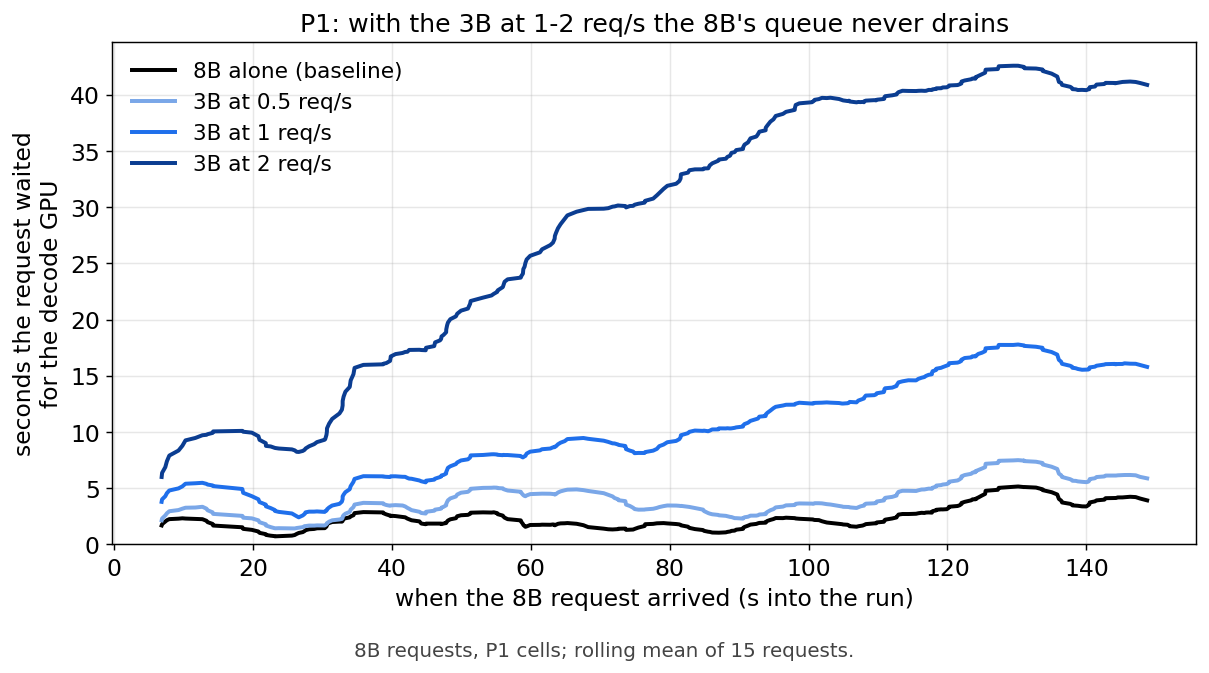
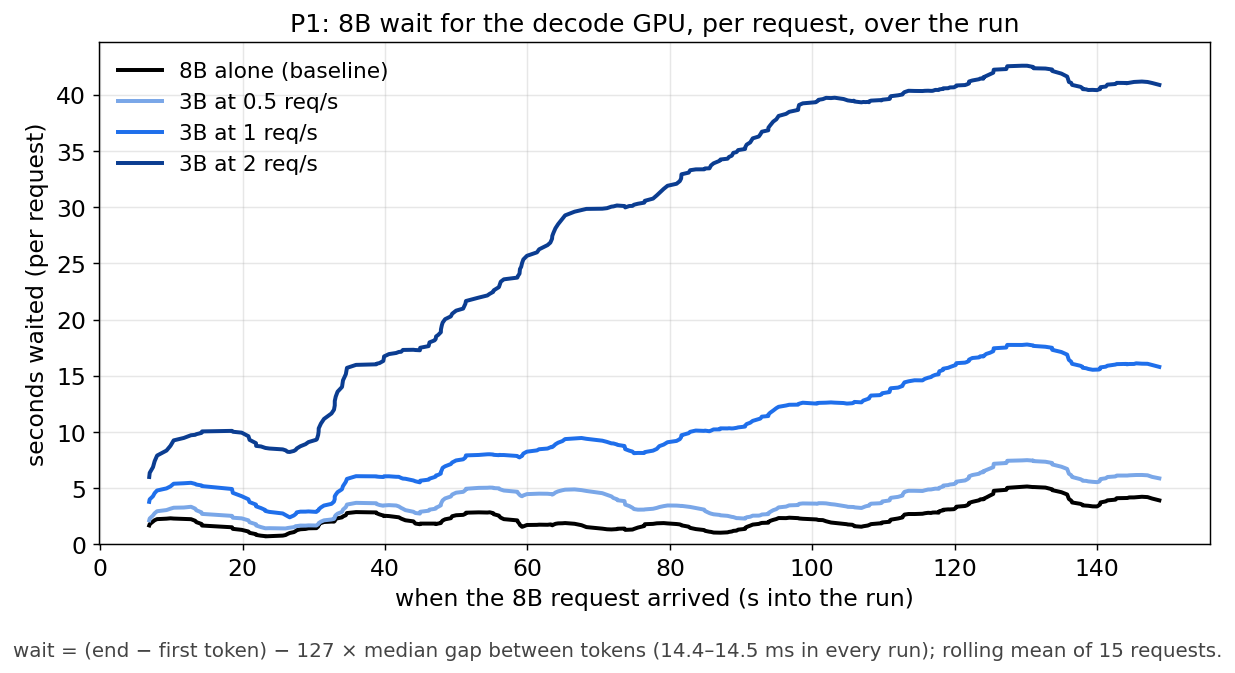
Prefill-coloc figures: panel titles name the metric measured
Titles now say what is plotted (8B output tok/s; 8B decode-engine queue wait = vLLM
request_queue_time, not TPOT; GPU1 SM-active; per-request wait; 3B TTFT; share of P3
decode requests with the whole KV in DRAM), with definitions in the footnotes.

diff --git a/scripts/plots/plot_pfc_results.py b/scripts/plots/plot_pfc_results.py
@@ -78,22 +78,22 @@ def rate_figure():
     base = lambda col: f("pfc_base", col)
     bars(ax[0], get("big_tok_per_s"), lambda y: f"{y:.0f}", cols, labs, base("big_tok_per_s"))
     ax[0].set(ylabel="8B output tokens / s", ylim=(0, 285),
-              title="(a) 8B serves less as the 3B load grows")
+              title="(a) 8B throughput: output tokens / s")
     q = [np.array(v) / 1000 for v in get("big_decode_queue_ms")]
     bars(ax[1], q, lambda y: f"{y:.1f}", cols, labs, base("big_decode_queue_ms") / 1000)
-    ax[1].set(ylabel="seconds", ylim=(0, 31),
-              title="(b) 8B requests wait longer for the decode GPU")
+    ax[1].set(ylabel="seconds (mean per request)", ylim=(0, 31),
+              title="(b) 8B queue wait in the decode engine")
     bars(ax[2], get("gpu1_sm_active_mean"), lambda y: f"{y:.2f}", cols, labs,
          base("gpu1_sm_active_mean"))
-    ax[2].set(ylabel="fraction of time the SMs are busy", ylim=(0, 0.8),
-              title="(c) The decode GPU (GPU1) is busier")
+    ax[2].set(ylabel="fraction of time (mean over the run)", ylim=(0, 0.8),
+              title="(c) GPU1 SM-active (DCGM)")
     fig.legend(*ax[0].get_legend_handles_labels(), loc="upper center", ncol=3,
                frameon=False, bbox_to_anchor=(0.5, 1.0))
     fig.suptitle("Placements P1 and P2: 3B prefill on the 8B's decode GPU", y=1.06,
                  fontsize=15, fontweight="bold")
     fig.text(0.5, -0.04, "8B: split, 2 requests/s, decode GPU budget 22 GiB.  3B: a fresh "
              "6144-token prompt per request, prefilled on the 8B's decode GPU.  "
-             "(b) = mean time an 8B request waits in the decode engine's queue.",
+             "(b) = vLLM request_queue_time on the 8B decode engine: arrival there → first scheduled (not TPOT).",
              ha="center", fontsize=11, color="#444")
     fig.tight_layout()
     fig.savefig(FIGS / "pfc_rate.png", dpi=130, bbox_inches="tight")
@@ -118,11 +118,12 @@ def saturation_figure():
         ax.plot(t[k - 1:], np.convolve(wait, np.ones(k) / k, mode="valid"), color=c, lw=2.2,
                 label=lab)
     ax.set(xlabel="when the 8B request arrived (s into the run)",
-           ylabel="seconds the request waited\nfor the decode GPU",
-           title="P1: with the 3B at 1-2 req/s the 8B's queue never drains", ylim=(0, None))
+           ylabel="seconds waited (per request)",
+           title="P1: 8B wait for the decode GPU, per request, over the run", ylim=(0, None))
     ax.grid(alpha=0.3)
     ax.legend(frameon=False, loc="upper left")
-    fig.text(0.5, -0.03, "8B requests, P1 cells; rolling mean of 15 requests.",
+    fig.text(0.5, -0.03, "wait = (end − first token) − 127 × median gap between tokens "
+             "(14.4–14.5 ms in every run); rolling mean of 15 requests.",
              ha="center", fontsize=11, color="#444")
     fig.tight_layout()
     fig.savefig(FIGS / "pfc_saturation.png", dpi=130, bbox_inches="tight")
@@ -151,7 +152,7 @@ def async_figure():
     ax[0].axhline(ref, color=C_P1, ls="--", lw=1.2,
                   label=f"prefill only, 3B alone ({ref:.0f} ms)")
     ax[0].set(xticks=xi, xticklabels=[p[0] for p in pairs], ylabel="3B time to first token (ms)\nbar = median, line = p95",
-              ylim=(0, 2300), title="(a) Writing the KV to DRAM no longer delays the first token")
+              ylim=(0, 2300), title="(a) 3B TTFT (time to first token)")
     ax[0].grid(alpha=0.3, axis="y")
 
     hit = []
@@ -164,7 +165,7 @@ def async_figure():
         ax[1].text(i, v + 1.5, f"{v:.0f}%", ha="center", va="bottom", fontsize=11)
     ax[1].set(xticks=range(5), xticklabels=lab, ylim=(0, 112),
               ylabel="% of decode requests",
-              title="(b) P3: decode found all its KV")
+              title="(b) P3: decode requests that found\nthe whole KV in DRAM (%)")
     ax[1].grid(alpha=0.3, axis="y")
     fig.legend(*ax[0].get_legend_handles_labels(), loc="upper center", ncol=3, frameon=False,
                bbox_to_anchor=(0.5, 0.99))
